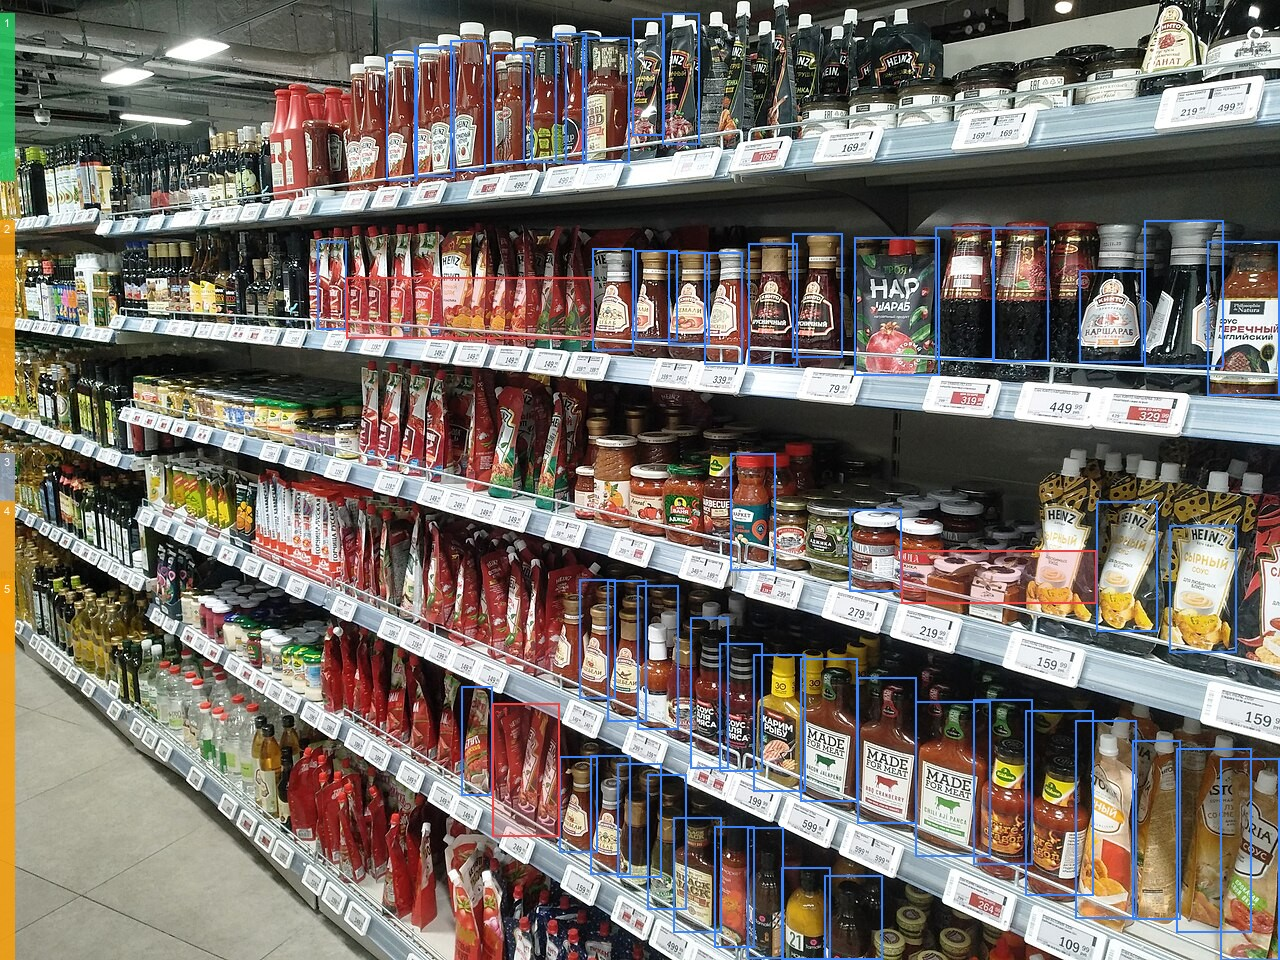
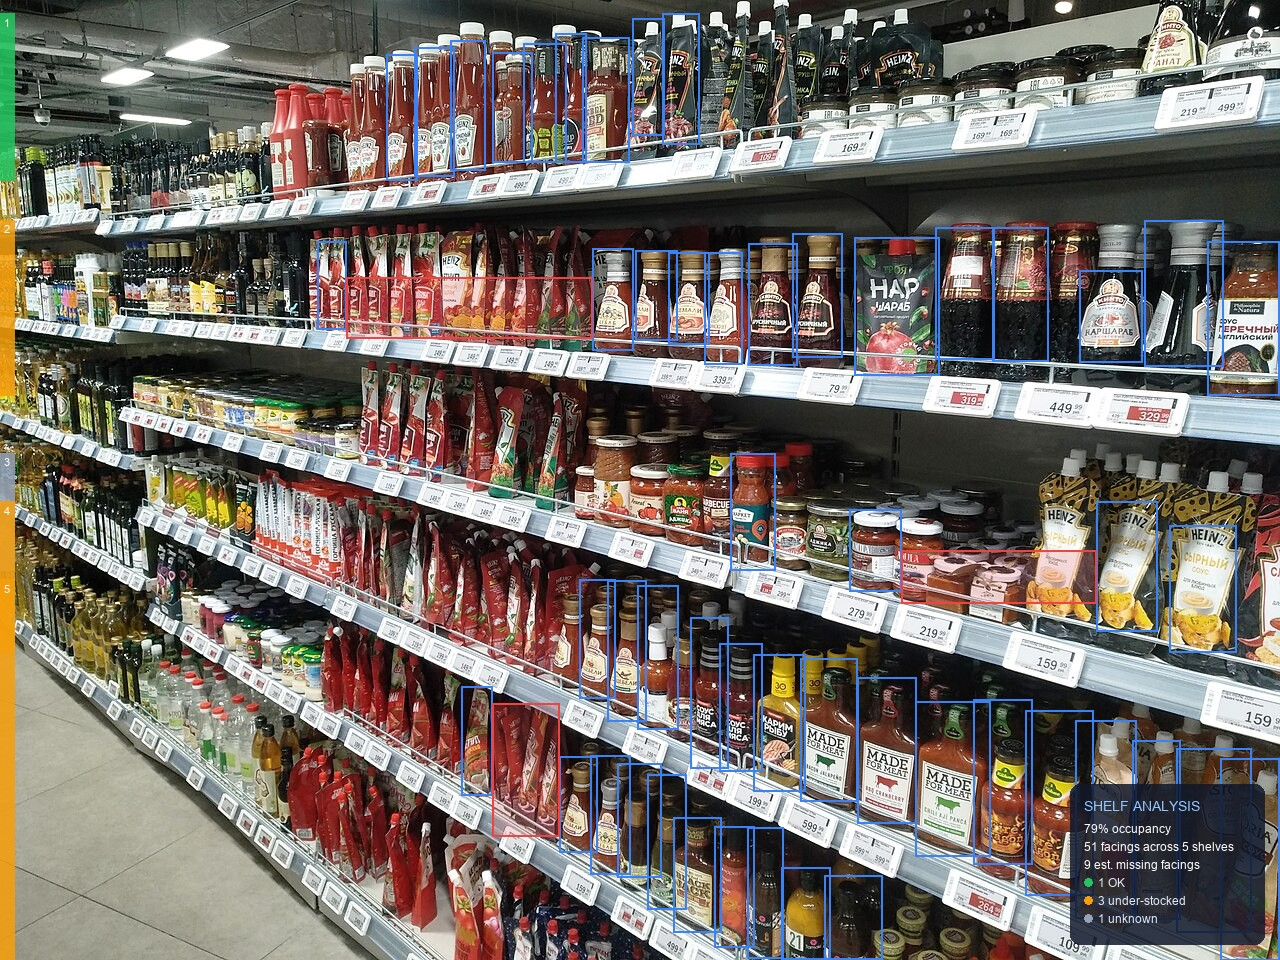
docs: regenerate sample outputs with the summary panel and cite a new reference
Regenerated all four bundled sample images (Clean and Debug, both photos)
with the new IoU deduplication pass and the on-image summary panel, and
updated the README hero caption and screenshots to match.

Added albertferre/shelf-product-identifier to docs/PRIOR_ART.md: a YOLOv8m
detector fine-tuned on SKU-110K plus image embeddings for facing-level
product identification, with its checkpoint published on Kaggle under an
MIT-licensed repository. Not integrated here since fetching it needs
Kaggle credentials this environment does not have; recorded as a concrete,
specific Roadmap candidate instead of a generic "fine-tune a model" line.

Changed region(s): [[0.8125, 0.8125, 1.0, 1.0]]

diff --git a/README.md b/README.md
@@ -10,7 +10,7 @@
 Detects product facings on a shelf photo, groups them into physical shelf rows, and reports occupancy and stock gaps as a JSON report and an annotated image.
 
 ![Clean annotated result](backend/sample_data/output/shelf_soda_bottles_clean.jpg)
-*Actual output of this pipeline (Clean view). Two shelf rows resolved by density-based clustering (22 facings, both real gaps in the photo flagged with an estimated missing-facing count), plus a third region at the bottom (the crate of loose bottles on the floor) correctly reported as `unknown` rather than a confident status.*
+*Actual output of this pipeline (Clean view), with the on-image executive summary panel in the corner: 87% occupancy, 23 facings across 3 detected regions, 3 estimated missing facings. The third region is the crate of loose bottles on the floor, correctly reported as `unknown` rather than a confident status, since a single low-confidence detection is not enough evidence to trust.*
 
 ## Table of contents
 
@@ -76,9 +76,9 @@ The root cause and the fix are both documented with exact file and line referenc
 1. **Upload**: the React app posts the image as `multipart/form-data` to `POST /api/analyze`, with confidence, IoU, an optional expected-shelf-count hint, and a `debug` flag.
 2. **Decode**: FastAPI reads the upload and decodes it with OpenCV.
 3. **Detection** (`app/detection.py`): a YOLOv8 model, loaded once as a process-wide singleton, returns bounding boxes, confidence scores, and class labels.
-4. **Class filter and cross-class NMS** (`app/detection.py`): output is restricted to a curated allowlist of plausible retail-product COCO classes, and a containment-based pass drops boxes that are mostly swallowed by a larger box of a different class (see [How detection cleanup works](#how-detection-cleanup-works)).
+4. **Class filter and cross-class deduplication** (`app/detection.py`): output is restricted to a curated allowlist of plausible retail-product COCO classes, then a class-agnostic IoU pass and a containment pass remove duplicate and false-positive boxes that Ultralytics' own per-class NMS cannot catch (see [How detection cleanup works](#how-detection-cleanup-works)).
 5. **Row clustering** (`app/shelf_analysis.py`): detections are grouped into shelf rows with DBSCAN over a scale-normalized vertical distance, then each row gets an occupancy ratio, a list of stock gaps, an average confidence, and a status.
-6. **Annotation** (`app/annotation.py`): Pillow renders the result in Clean view (a compact left-margin status tag, plain boxes, slim gap markers) or Debug view (adds per-box labels and full shelf banners).
+6. **Annotation** (`app/annotation.py`): Pillow renders the result in Clean view (a compact left-margin status tag, plain boxes, slim gap markers, and an executive summary card in the corner) or Debug view (adds per-box labels and full shelf banners).
 7. **Response**: a single `AnalysisReport` (Pydantic model) carries the annotated image, the per-shelf breakdown, a compliance summary, and a processing time.
 8. **Render**: the frontend renders the annotated image, a compliance dashboard, and a per-shelf table, typed against the same response shape.
 
@@ -92,12 +92,13 @@ Regions built from very few detections (by default, fewer than 2) are reported a
 
 ## How detection cleanup works
 
-The stock COCO-pretrained checkpoint returns all 80 COCO classes, most of which cannot be a shelf product. Two cleanup steps run after detection, in `app/detection.py`:
+The stock COCO-pretrained checkpoint returns all 80 COCO classes, most of which cannot be a shelf product, and only ever runs non-max suppression within a single class. Three cleanup steps run after detection, in `app/detection.py`, in order:
 
 1. **Class allowlist**: only classes that can plausibly be a packaged or loose retail product are kept (`bottle`, `cup`, `bowl`, various foods, `book`, `vase`, and similar). Structural and unrelated classes such as `refrigerator`, `person`, or `chair` are dropped.
-2. **Cross-class containment suppression**: Ultralytics applies non-max suppression per class, so a large box of one class is never compared against an overlapping box of another class. A box that contains two or more other, mutually non-overlapping boxes is treated as a coarse false positive spanning several real objects and is dropped, keeping its children. A box that contains exactly one other box is resolved by keeping whichever of the two has higher confidence.
+2. **Cross-class IoU suppression**: a standard greedy NMS pass, run again across all remaining classes together. This catches the case Ultralytics' own per-class NMS cannot: two boxes of different classes (for example `bottle` and `vase`) both describing the same physical object. The higher-confidence box wins.
+3. **Containment suppression**: a box that contains two or more other, mutually non-overlapping boxes is treated as a coarse false positive spanning several real objects and is dropped, keeping its children. This is the "refrigerator box swallowing several bottle boxes" case, which a plain IoU pass does not catch, since the umbrella box can have low IoU with each individual child while still enclosing all of them.
 
-Both functions are pure, model-free, and covered directly by unit tests in `backend/tests/test_detection_postprocessing.py`.
+All three functions are pure, model-free, and covered directly by unit tests in `backend/tests/test_detection_postprocessing.py`, including a direct regression test for the swallowed-boxes case.
 
 ## Tech stack
 
@@ -278,7 +279,8 @@ Backend settings are read from environment variables (or `backend/.env`), prefix
 | `SHELF_DEVICE` | `cpu` | Inference device (`cpu`, `cuda`, `mps`) |
 | `SHELF_DEFAULT_CONFIDENCE` | 0.35 | Default confidence threshold if not passed per request |
 | `SHELF_DEFAULT_IOU` | 0.45 | Default IoU threshold if not passed per request |
-| `SHELF_CONTAINMENT_SUPPRESSION_THRESHOLD` | 0.85 | Containment fraction above which a box is treated as a duplicate or a false-positive umbrella |
+| `SHELF_CROSS_CLASS_IOU_THRESHOLD` | 0.5 | Class-agnostic greedy NMS threshold; two boxes of different classes at or above this IoU are treated as the same object |
+| `SHELF_CONTAINMENT_SUPPRESSION_THRESHOLD` | 0.85 | Containment fraction above which a box is treated as a false-positive umbrella spanning several real objects |
 | `SHELF_DBSCAN_EPS_FACTOR` | 0.25 | Row clustering threshold, in units of average box height; tuned against both bundled sample photos, see `docs/AUDIT.md` |
 | `SHELF_MIN_DETECTIONS_FOR_CONFIDENCE` | 2 | Regions with fewer detections than this are reported as `unknown` |
 | `SHELF_GAP_WIDTH_FACTOR` | 1.35 | Horizontal gap multiplier that flags a stock gap |
@@ -325,8 +327,8 @@ This project went through an explicit research and audit pass before the pipelin
 
 Documented as not implemented, with the specific reason, rather than attempted with fabricated results:
 
-- Fine-tune a YOLOv8 or YOLO11 checkpoint on SKU-110K or a comparable labeled retail dataset, and report real measured precision, recall, and mAP against a held-out split.
-- SKU or brand recognition via embeddings (for example MobileNetV3 or DINOv2) and a similarity index, following the approach in `Alijanloo/Retail-Shelf-Monitoring` and `Adnanwadee/retail-shelf-dense-product-detection` (see `docs/PRIOR_ART.md`).
+- Fine-tune a YOLOv8 or YOLO11 checkpoint on SKU-110K or a comparable labeled retail dataset, and report real measured precision, recall, and mAP against a held-out split. `albertferre/shelf-product-identifier` (see `docs/PRIOR_ART.md`) already publishes a YOLOv8m checkpoint fine-tuned this way on Kaggle under an MIT-licensed repository; it was not pulled into this project only because fetching it requires Kaggle account credentials this environment does not have, not because of a technical or licensing blocker.
+- SKU or brand recognition via embeddings (for example MobileNetV3 or DINOv2) and a similarity index, following the approach in `Alijanloo/Retail-Shelf-Monitoring` and `albertferre/shelf-product-identifier` (see `docs/PRIOR_ART.md`).
 - Temporal consensus across video frames for deployments with a fixed camera, to reduce single-frame false positives before an alert fires.
 - Tiled or sliced inference (for example SAHI) to improve recall on small, densely packed products, without requiring a training run.
 

diff --git a/docs/PRIOR_ART.md b/docs/PRIOR_ART.md
@@ -1,6 +1,6 @@
 # Prior art review
 
-This document summarizes ten public repositories relevant to retail shelf analytics, verified to exist via the GitHub API before being cited here, plus the datasets and techniques they rely on. The goal is to establish what a mature pipeline actually looks like before changing this project's architecture.
+This document summarizes public repositories relevant to retail shelf analytics, each verified to exist via the GitHub API before being cited here, plus the datasets and techniques they rely on. The goal is to establish what a mature pipeline actually looks like before changing this project's architecture.
 
 ## Repositories reviewed
 
@@ -27,6 +27,14 @@ Takeaway: even a well-executed dense-detection project stops short of claiming f
 Two-stage pipeline: YOLOv5 fine-tuned on SKU-110K for localization, ResNet-18 fine-tuned on the Grocery Store Dataset for per-product classification. Reported, real numbers: detection mAP@0.5 = 88.9%, precision/recall = 89.6% / 81.8%; classification accuracy 78.31% across 81 categories.
 
 Takeaway: this is the closest real benchmark for "what does a SKU-110K-fine-tuned YOLO actually score." It confirms that fine-tuning is what closes the gap between a COCO-generic detector and usable retail recall, and gives an honest recall ceiling (81.8%) even after fine-tuning, so a fine-tuned model is a large improvement, not a silver bullet.
+
+### albertferre/shelf-product-identifier (71 stars)
+
+A YOLOv8m detector fine-tuned on SKU-110K for facing localization, then image embeddings (compared with cosine similarity, visualized with t-SNE) to cluster facing crops into product groups, which are manually labeled once to build a small knowledge base. New crops are then matched to the closest known cluster. The author's own reported result: 2 of 3 products in a held-out test photo were classified correctly, with the one miss attributed to a training-set logo mismatch, stated plainly rather than smoothed over.
+
+The trained YOLOv8m checkpoint and training notebook are published on Kaggle (`albertferre/sku-facings-detector`), and the GitHub repository itself is MIT licensed. This checkpoint was **not** integrated into this project: downloading a Kaggle notebook's output artifact requires Kaggle account credentials this environment does not have, and the weights are not otherwise mirrored as a plain downloadable file. It is recorded here as a concrete, real candidate for a future upgrade (see the Roadmap in the main README) rather than something already verified end to end.
+
+Takeaway: embeddings-based facing counting (as opposed to per-box class labels) is a real, working way to get product-level identity out of a class-agnostic dense detector, and this project independently confirms fine-tuning on SKU-110K is what other teams reach for first, before ever getting to the embeddings step.
 
 ### TalhaFarook/ShelfSight (15 stars)
 
